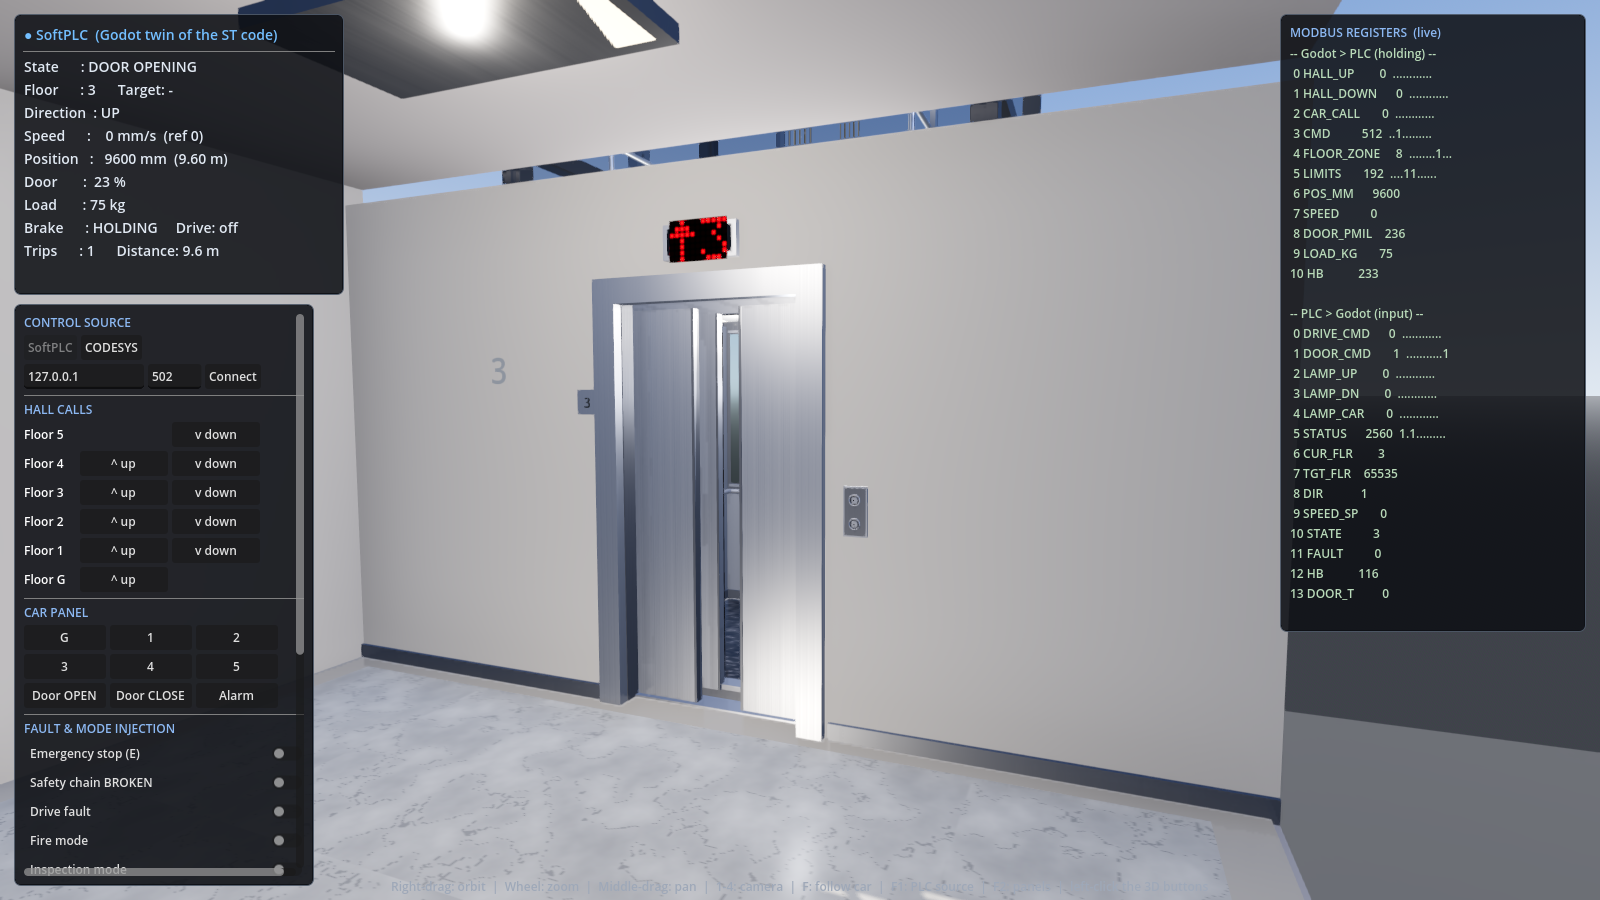
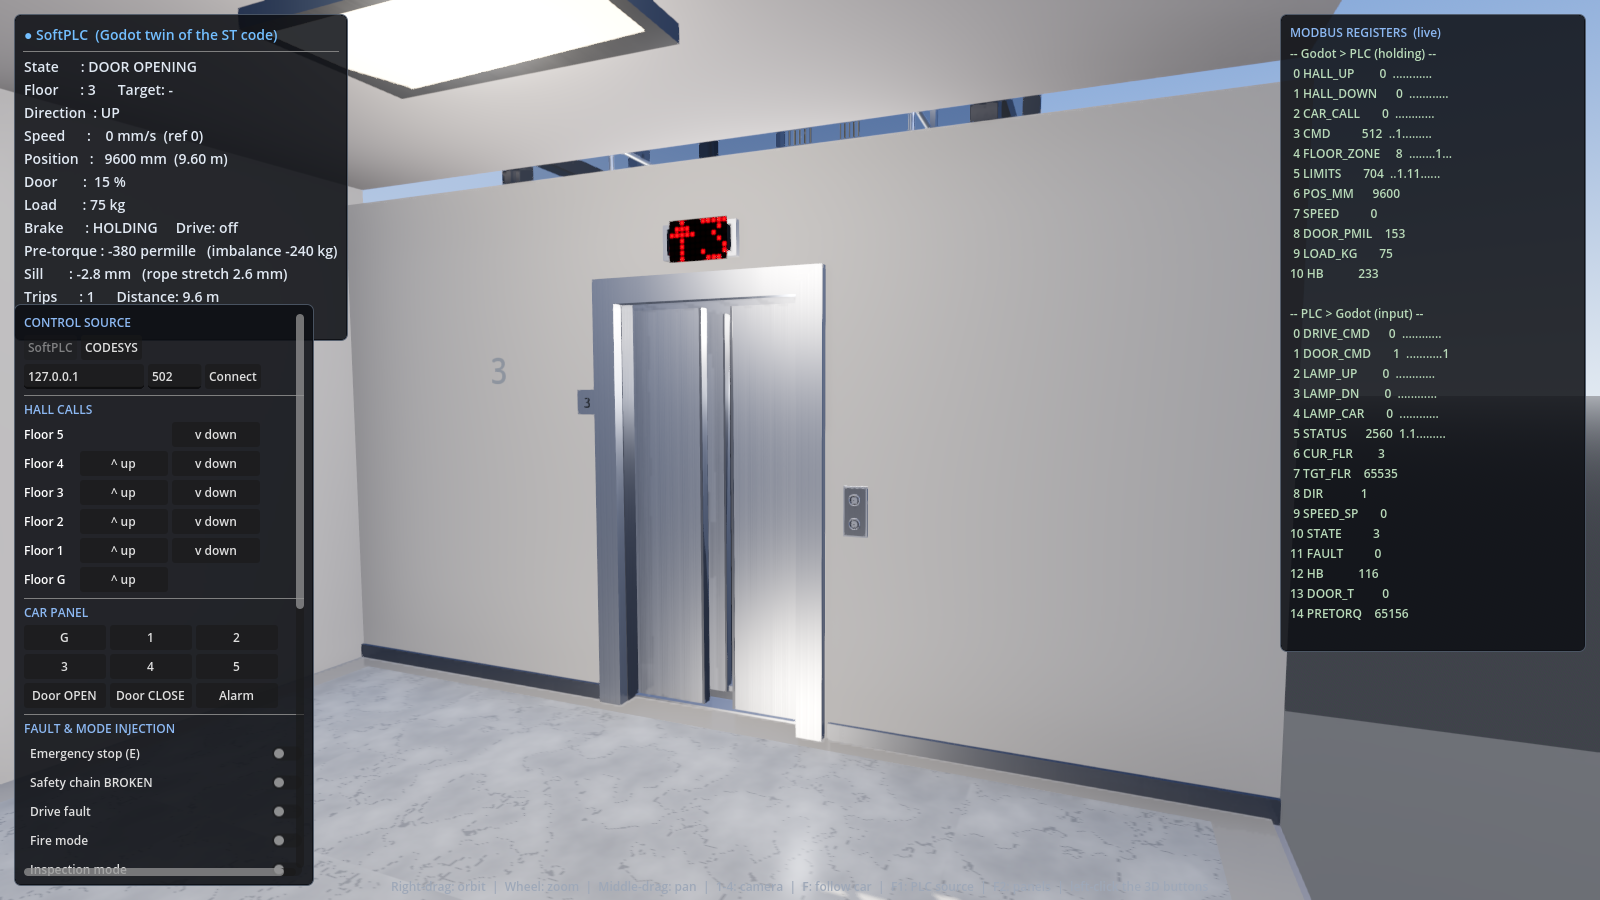
Full-load bypass, and refresh the docs and screenshots
Past 80 % of rated load the car stops answering LANDING calls and runs
only its own. The calls stay registered and lit -- somebody still wants to
travel, this car just has no room for them -- and are served as soon as it
empties. A car call is never bypassed: that passenger is already inside.

FB_Dispatcher gets one input and gates CallAtFloor and StopHere on it,
which is enough because every search funnels through those two.

Scenario 18 covers it; disabling the bypass fails three of its checks.

Also in this commit:
- HUD shows the pre-torque reference with the imbalance it comes from, and
  the sill offset with the rope stretch behind it, plus the worn-brake
  injection switch.
- Screenshots re-rendered.
- Perf table refreshed: 715 draw calls, 519 k triangles, 428 MB. Script
  time went the OTHER way, 0.52 -> 1.21 ms, because the plant grew a mass
  model, rope elasticity and levelling vanes and the controller grew four
  modes. Said plainly in the README rather than quietly left stale.
- Known limitations rewritten to name what is still missing against a real
  installation: firefighter Phase II, independent service, terminal
  slowdown as a stage separate from the final limits, encoder drift
  correction against the door-zone vane, door closing force and the
  reversal counter.

All six suites pass on Godot 4.4.1.

diff --git a/README.md b/README.md
@@ -144,6 +144,11 @@ godot --path godot -- --plc modbus --host 192.168.1.10 --port 502
 served in order, then the car reverses. After 30 s idle it returns to the
 parking floor.
 
+**Full-load bypass.** Past 80 % of rated load the car stops answering *landing*
+calls and runs only its own. The calls stay registered and lit — somebody still
+wants to travel, this car just has no room for them — and get served as soon as
+it empties. A car call is never bypassed: that passenger is already inside.
+
 **Motion:** the controller produces a VVVF drive reference. Rated speed
 1600 mm/s, stopping within ±8 mm.
 
@@ -241,7 +246,7 @@ button halo stays lit while it rings.
 
 **Special modes:** fire (all calls cleared, car sent to the evacuation floor,
 doors held open), inspection (car-top hold-to-run, 300 mm/s), overload (start
-inhibit), and:
+inhibit at 110 % of rated), and:
 
 **Battery rescue (ARD) on mains failure.** Lose the mains and the drive drops
 out where it stands. After the changeover (3 s: contactors drop, the battery
@@ -256,7 +261,7 @@ car sinks to the floor below, an empty one floats up to the floor above. The
 car shows `E` and the doors stay open until the mains return.
 
 **Link supervision:** Godot sends a heartbeat every scan. If it stops changing
-for 2 s the PLC treats the safety chain as open and refuses to move the car.
+for 2 s the PLC treats the safety chain as open and refuses to move the car, and full-load bypass.
 
 ---
 
@@ -404,7 +409,7 @@ detect it from its own inputs.
 
 ## Performance
 
-The scene runs at ~135 FPS at 1600×900. There is a built-in profiling mode:
+The scene runs at ~126 FPS at 1600×900. There is a built-in profiling mode:
 
 ```bash
 godot --path godot -- --profile 8
@@ -417,10 +422,14 @@ Measurement-driven improvements:
 
 | | Before | After |
 |---|---|---|
-| Draw calls | 2907 | 714 |
+| Draw calls | 2907 | 715 |
 | Triangles | 804 k | 519 k |
-| Script time (frame) | 1.21 ms | 0.52 ms |
-| Video memory | 480 MB | 425 MB |
+| Video memory | 480 MB | 428 MB |
+
+Script time went the other way — 0.52 ms then, 1.21 ms now — because the plant
+grew a mass model, rope elasticity and the levelling vanes, and the controller
+grew four more modes. That is the cost of the physics being real, and at 60 Hz
+it is 7 % of the frame budget.
 
 - **Mesh sharing:** meshes of identical size share a single resource. Critical
   for the hundreds of rope-arc segments and repeated details. Meshes that are
@@ -470,18 +479,18 @@ indices in `PLC_PRG.st` (32 bits).
 godot --headless --path godot --script res://tests/sim_test.gd
 ```
 
-17 scenarios: car call and levelling, collective control, emergency stop +
+18 scenarios: car call and levelling, collective control, emergency stop +
 reset, overload start inhibit, fire evacuation (including a regression for the
 doors staying open), light curtain, travel timeout and recovery from a fault,
 brake feedback, overspeed, gong duration + alarm bell, ride quality (jerk and
-acceleration limits verified by measurement), load compensation (pre-torque sign, and
-the rollback that appears when it is switched off), and the safety gear (the
-governor gripping, the car held on the rails, and that RESET will not clear it),
-the battery rescue on mains failure (which way it chooses, that it stops at the
-first floor rather than the call, and that it creeps), re-levelling, levelling
-accuracy over every run length including the awkward single-floor and
-ground-floor cases, and that the holding brake is never asked to stop a moving
-car.
+acceleration limits verified by measurement), load compensation (pre-torque
+sign, and the rollback that appears when it is switched off), the safety gear
+(the governor gripping, the car held on the rails, and that RESET will not clear
+it), the battery rescue on mains failure (which way it chooses, that it stops at
+the first floor rather than the call, and that it creeps), re-levelling,
+levelling accuracy over every run length including the awkward single-floor and
+ground-floor cases, that the holding brake is never asked to stop a moving car,
+and full-load bypass.
 
 ```bash
 godot --headless --path godot --script res://tests/modbus_test.gd
@@ -548,6 +557,20 @@ To be straight about it, this is the part of the project that is not verified:
   the first build.
 - Single-car system — group control (a shared dispatcher across several
   elevators) is not modelled.
+- Still absent on the control side, and all of it is real equipment:
+  firefighter Phase II (operating the car from inside after the recall),
+  independent / attendant service, terminal slowdown switches as a stage
+  separate from the final limits, and correcting accumulated encoder drift
+  against the door-zone vane — the controller detects the mismatch as a fault
+  but never trims the position.
+- The door is a position model with a velocity envelope, not a force model:
+  closing force and the reversal counter that pushes a repeatedly obstructed
+  door into nudging are not represented.
+- Rope stretch is modelled with real elasticity, but the other things that move
+  a parked car — thermal drift, bearing and guide friction, rope creep over
+  months — are not. On a 16 m rise the stretch alone is a few millimetres, so
+  re-levelling rarely fires by itself; the worn-brake injection is there to
+  exercise it.
 
 ---
 
